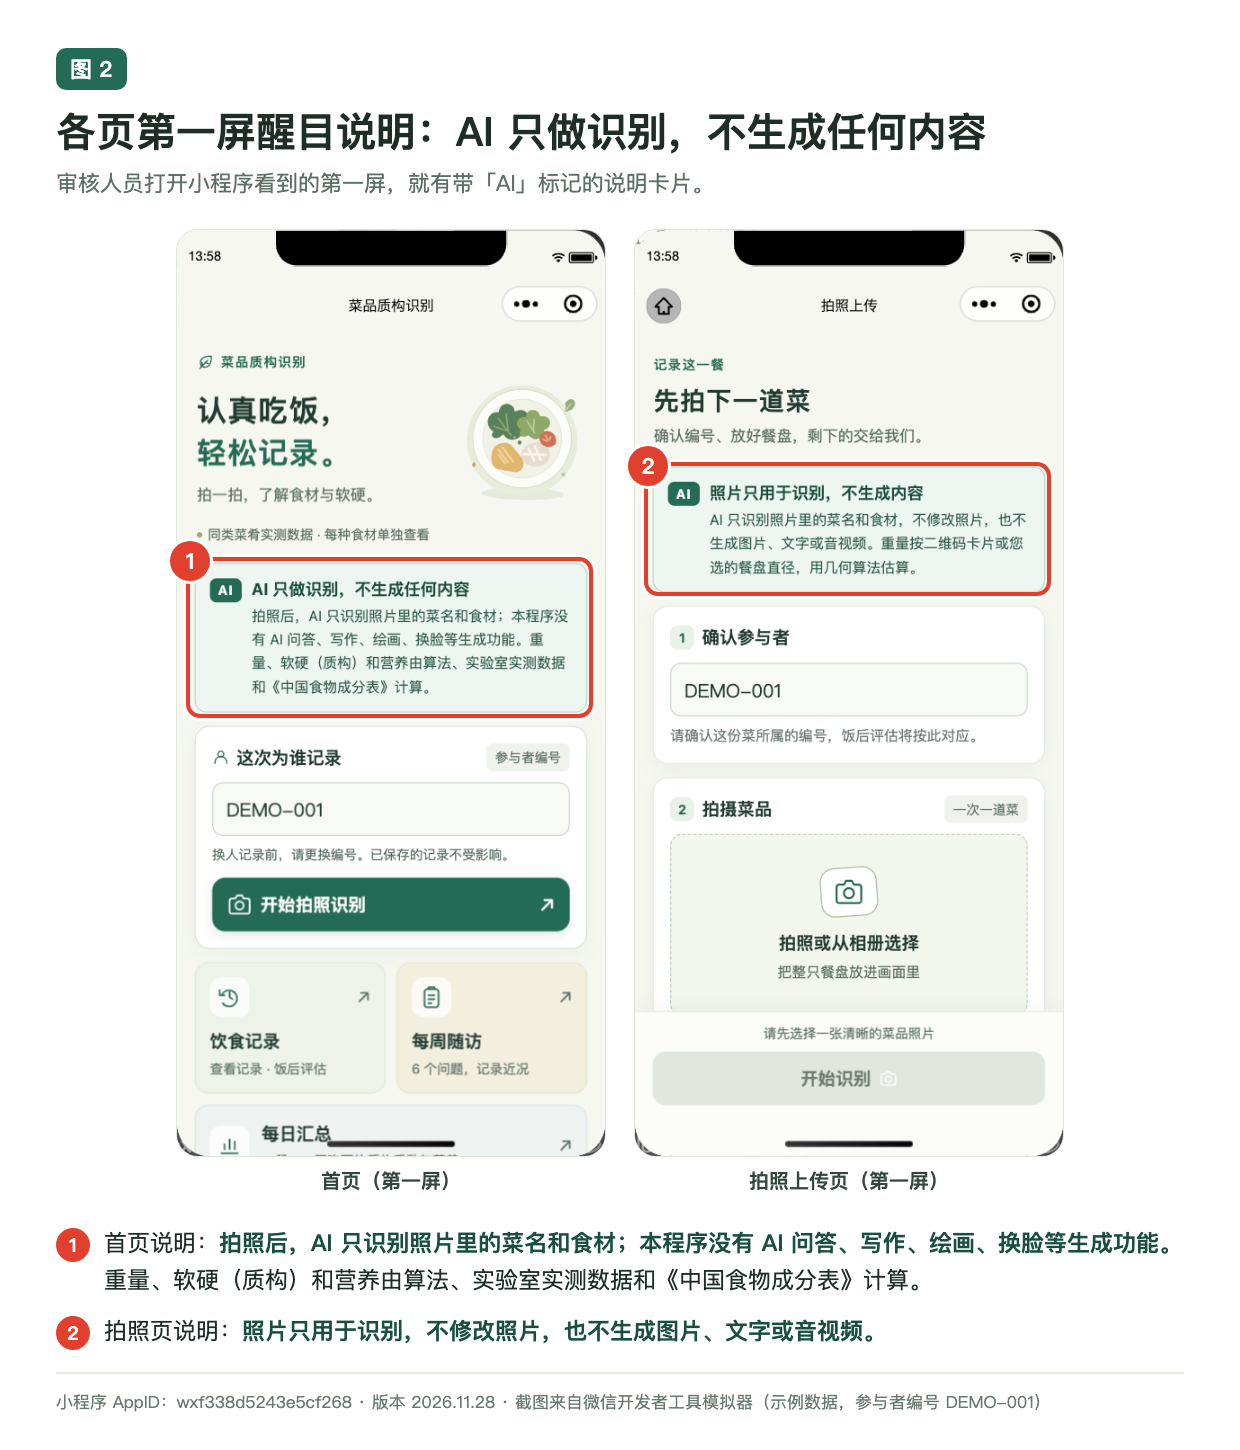
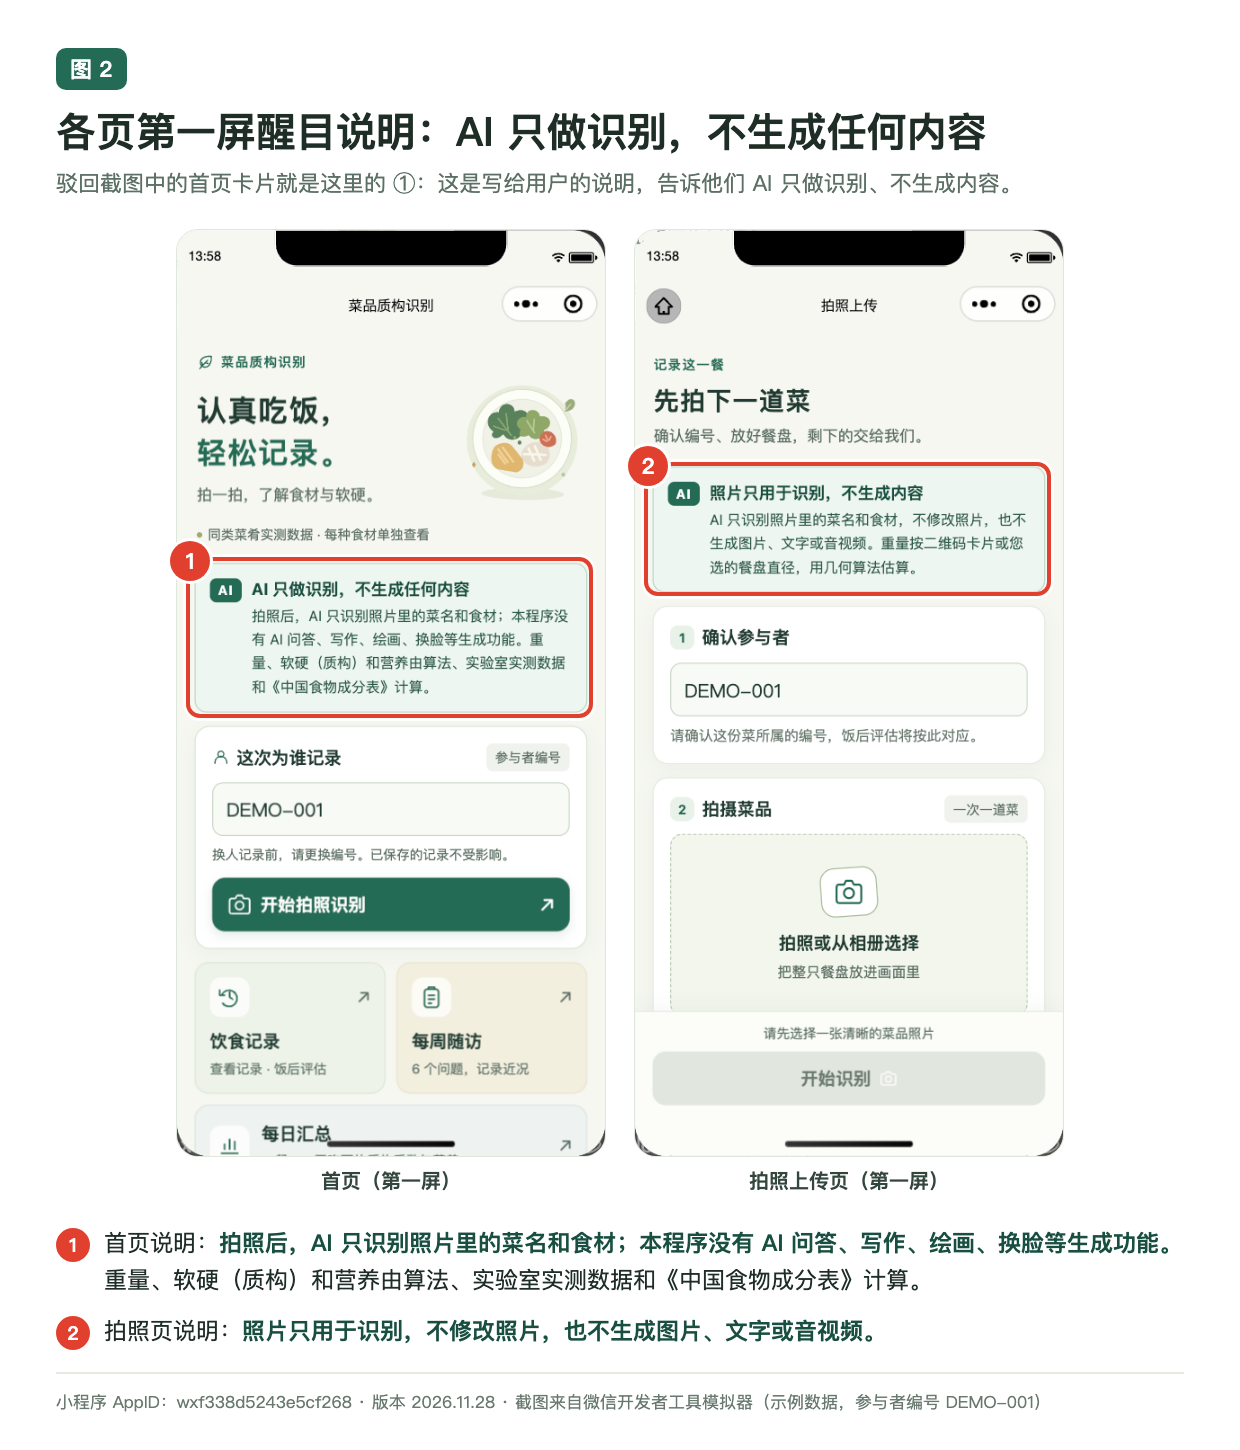
docs: 2026.11.28 第 2 次申诉材料：完整理由，不提上一版
图1 重写为完整论证（用途、AI 只在识别一步、对照深度合成规定第二十三条、
数据来源、明示）；图2 指出驳回截图中的卡片即使用说明；图4 改为「其余功能
都是记录」；反馈原因改为 193 字新版。

Changed region(s): [[0.0613, 0.0931, 0.5823, 0.1552], [0.7355, 0.1241, 0.7968, 0.1552], [0.6435, 0.1241, 0.7048, 0.1552]]

diff --git a/交付/2026.11.28-申诉材料/README.md b/交付/2026.11.28-申诉材料/README.md
@@ -1,23 +1,31 @@
 # 2026.11.28 审核申诉材料（深度合成误判）
 
-驳回原因与上一版相同：「小程序服务内容涉及深度合成技术……属个人主体尚未开放服务类目」。上一版 `2026.11.27` 同样含拍照识别功能，经申诉后审核通过；本版没有新增生成类功能。
+驳回原因：「小程序服务内容涉及深度合成技术（如：AI问答、AI换脸视频、AI绘画等），属个人主体尚未开放服务类目」。驳回截图是首页第一屏，也就是那张「AI 只做识别，不生成任何内容」的说明卡。
+
+第 2 次申诉（2026-11-28 晚）按用户要求重写：不提「上一版已通过」，直接从头讲清楚理由。依次说明小程序做什么、AI 用在哪一步、对照法规定义、其余数据怎么来，以及驳回截图里那张卡片是什么。
 
 ## 填写
 
 1. 「是否接受修改指引」选 **我不接受，存在误判**；「选择异议项」勾选深度合成那一条。
-2. 「反馈原因」（155 字，上限 200）：
+2. 「反馈原因」（193 字，上限 200）：
 
-> 本小程序为饮食记录工具（类目工具-备忘录），不提供深度合成服务。上一版本2026.11.27含同样的拍照识别功能，已复核通过；本版仅新增尺寸参照卡、按餐分组和比例输入，未新增生成类功能。AI只识别照片中的菜名和食材，不生成或修改图片、文字、音视频，无AI问答、绘画、换脸。各页第一屏已明示，详见附图，恳请复核。
+> 本小程序是饮食记录工具（工具-备忘录）：用户拍下饭菜，选择餐次，饭后自己记录吃了多少，按天汇总。AI只用于识别照片里的菜名和食材，输出限定为名称和占比等数值；重量、软硬、营养由公式、实验室实测库和《中国食物成分表》计算。无问答对话、写作、绘画、换脸，不生成或修改图片、文字、音视频，用户也不能向AI输入文字。驳回截图中的AI卡片是我们写给用户的说明。不属于深度合成，详见附图，恳请复核。
 
-3. 「反馈材料」按顺序上传本文件夹里的 5 张图（PNG，每张约 0.3–0.4 MB）：
+3. 「反馈材料」按顺序上传本文件夹里的 5 张图（PNG，每张约 0.3–0.5 MB）：
 
 | 图 | 内容 |
 | --- | --- |
-| 图1-情况说明 | 文字说明：上一版已通过；AI 只做识别；不生成内容；数据来源 |
-| 图2-第一屏AI说明 | 首页、拍照页第一屏的「AI 只做识别，不生成任何内容」说明卡（红框标注） |
+| 图1-情况说明 | 完整理由：用途 → AI 只在识别一步（输入、识别、输出）→ 对照《深度合成管理规定》第二十三条六类逐项「无」→ 重量、软硬、营养怎么算 → 各页明示 |
+| 图2-第一屏AI说明 | 首页、拍照页第一屏的说明卡（红框），并指出驳回截图中的卡片就是这张 |
 | 图3-识别结果只有名称 | 识别结果页：AI 只输出菜名、食材名称；重量和软硬来自算法与实测库 |
-| 图4-本版新增功能 | 尺寸参照卡、按天按餐分组、「这一餐」逐道评估 |
+| 图4-其余功能都是记录 | 尺寸参照卡、按天按餐分组、「这一餐」逐道评估 |
 | 图5-用户记录饭后评估 | 饭后评估：用户自己点选或输入吃了多少 |
+
+## 措辞依据（均与代码一致）
+
+- 重量：`miniprogram/utils/weight.ts`，餐盘面积 × 盘面占比 × 厚度 × 堆积密度；模型直接估重按 0.3 权重交叉校验。
+- 模型输出解析：`cloudfunctions/analyzeMeal/vision.js` `parseResponse`，字段固定，不合格式或超范围即报错重试。
+- 法规：《互联网信息服务深度合成管理规定》第二十三条对深度合成技术的定义与六类列举。
 
 ## 截图来源
 
@@ -28,4 +36,4 @@
 
 ## 如果仍被驳回
 
-说明本轮审核方把「调用大模型接口」本身认定为深度合成，属于主体资质问题。可以联系代码审核在线客服，说明上一版已通过；或按网页版路线（[docs/web-version.md](../../docs/web-version.md)）继续。
+审核方可能把「调用大模型接口」本身认定为深度合成，这属于主体资质问题，改说法解决不了。可以联系代码审核在线客服，问清楚「图像识别类功能」在个人主体下是否可用；也可以按网页版路线（[docs/web-version.md](../../docs/web-version.md)）继续。
